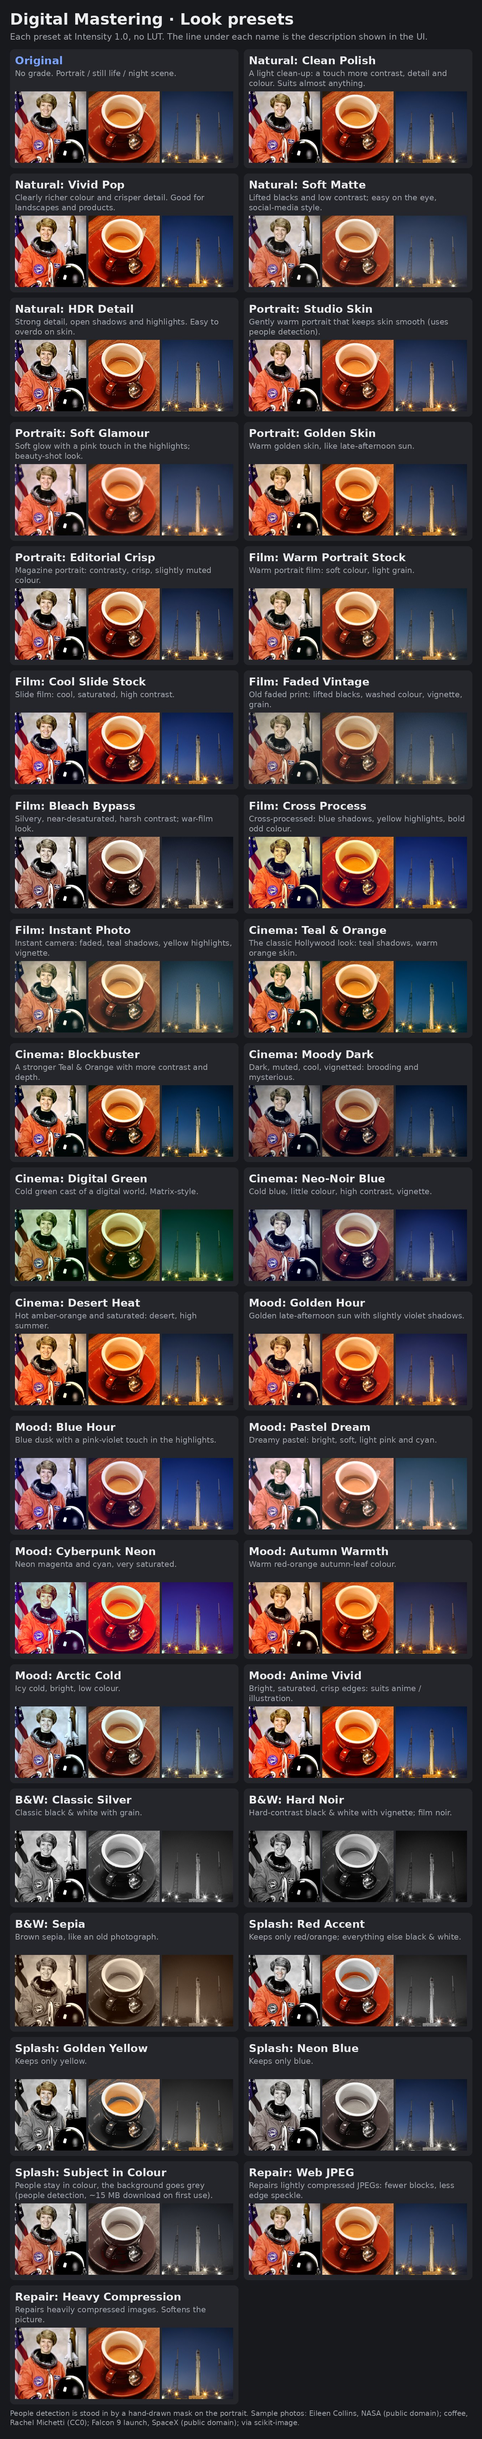
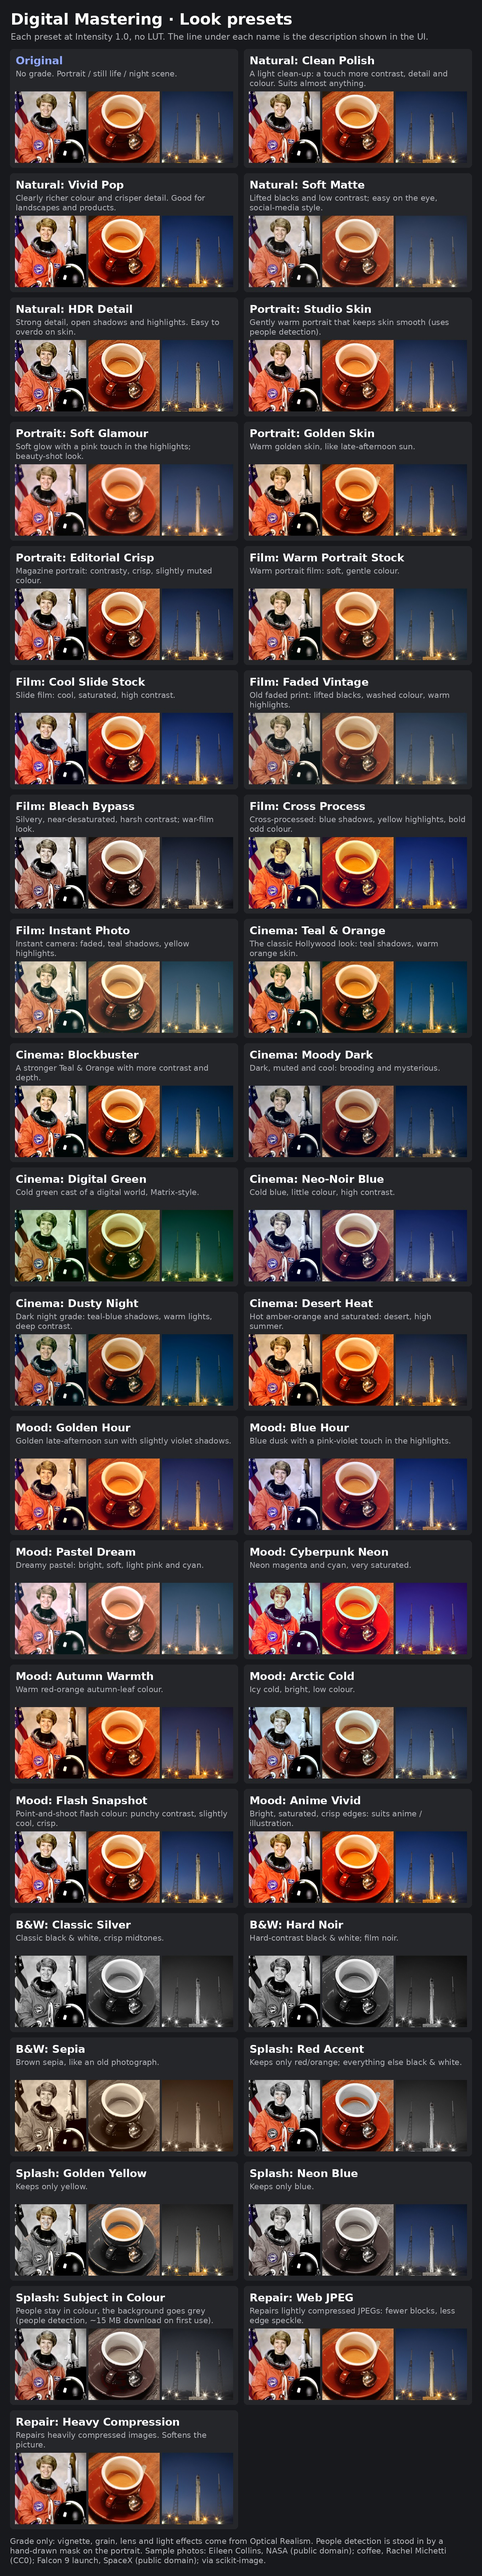
Hand vignette and grain to Optical Realism; grade only
Digital Mastering is now the grade and nothing else; the camera side
(vignette, grain, lens, light) lives in Optical Realism, which runs first.

- Remove vignette, grain and grain size (controls, ops, pipeline, guide).
  Old PNG info carrying them still pastes; those keys are ignored.
- Presets lose their vignette/grain; descriptions updated. New
  "Cinema: Dusty Night" and "Mood: Flash Snapshot" as colour partners for
  Optical Realism's "Dusty Night Film" and "Digital Flash".
- README: division of labour and a preset pairing table.
- Preset reference re-rendered (38 presets).

Claude-Session: https://claude.ai/code/session_01VRYVbQCnCMuoqNc9wUeJiU

diff --git a/lib_dm/presets.py b/lib_dm/presets.py
@@ -7,6 +7,9 @@ Hues: 0 red, 0.08 orange, 0.12 amber, 0.16 yellow, 0.33 green, 0.47 teal,
 
 Presets do not touch Intensity, the LUT or the exposure check: pick a preset,
 then dial Intensity to taste, and it stays put while you try other presets.
+
+Grade only: vignette, grain and every other camera trait are Optical
+Realism's. Pair a look here with one of its camera presets (see README).
 """
 
 from .controls import compose
@@ -44,21 +47,20 @@ _P = {
     # ---- film -------------------------------------------------------------------
     "Film: Warm Portrait Stock": dict(
         offset=0.02, contrast=0.05, saturation=0.90, temperature=0.12,
-        shadow_hue=0.47, shadow_tint=0.08, highlight_hue=0.08, highlight_tint=0.15, grain=0.20),
+        shadow_hue=0.47, shadow_tint=0.08, highlight_hue=0.08, highlight_tint=0.15),
     "Film: Cool Slide Stock": dict(
-        contrast=0.30, saturation=1.20, temperature=-0.10, shadow_hue=0.64, shadow_tint=0.15,
-        grain=0.12),
+        contrast=0.30, saturation=1.20, temperature=-0.10, shadow_hue=0.64, shadow_tint=0.15),
     "Film: Faded Vintage": dict(
         offset=0.07, slope=0.88, contrast=-0.10, saturation=0.75, highlight_hue=0.12,
-        highlight_tint=0.20, shadow_hue=0.55, shadow_tint=0.10, vignette=0.25, grain=0.30),
+        highlight_tint=0.20, shadow_hue=0.55, shadow_tint=0.10),
     "Film: Bleach Bypass": dict(
-        slope=1.05, offset=-0.02, contrast=0.45, saturation=0.45, clarity=0.50, grain=0.20),
+        slope=1.05, offset=-0.02, contrast=0.45, saturation=0.45, clarity=0.50),
     "Film: Cross Process": dict(
         tint=-0.15, contrast=0.30, saturation=1.20, shadow_hue=0.66, shadow_tint=0.35,
         highlight_hue=0.16, highlight_tint=0.40),
     "Film: Instant Photo": dict(
         offset=0.08, contrast=-0.10, saturation=0.70, tint=0.10, highlight_hue=0.13,
-        highlight_tint=0.30, shadow_hue=0.50, shadow_tint=0.25, vignette=0.35, grain=0.25),
+        highlight_tint=0.30, shadow_hue=0.50, shadow_tint=0.25),
 
     # ---- cinema ----------------------------------------------------------------
     "Cinema: Teal & Orange": dict(
@@ -66,16 +68,18 @@ _P = {
         highlight_hue=0.08, highlight_tint=0.40),
     "Cinema: Blockbuster": dict(
         slope=1.08, offset=-0.03, contrast=0.40, clarity=0.30, shadow_hue=0.50,
-        shadow_tint=0.25, highlight_hue=0.08, highlight_tint=0.20, vignette=0.20),
+        shadow_tint=0.25, highlight_hue=0.08, highlight_tint=0.20),
     "Cinema: Moody Dark": dict(
         exposure=-0.30, offset=-0.02, contrast=0.25, saturation=0.75, shadow_hue=0.58,
-        shadow_tint=0.30, vignette=0.40, grain=0.15),
+        shadow_tint=0.30),
     "Cinema: Digital Green": dict(
         tint=-0.50, contrast=0.30, saturation=0.70, shadow_hue=0.38, shadow_tint=0.40,
         highlight_hue=0.30, highlight_tint=0.20),
     "Cinema: Neo-Noir Blue": dict(
-        temperature=-0.45, contrast=0.35, saturation=0.60, shadow_hue=0.64, shadow_tint=0.40,
-        vignette=0.45),
+        temperature=-0.45, contrast=0.35, saturation=0.60, shadow_hue=0.64, shadow_tint=0.40),
+    "Cinema: Dusty Night": dict(
+        exposure=-0.35, offset=-0.01, contrast=0.25, saturation=1.05, temperature=-0.10, tint=-0.05,
+        shadow_hue=0.52, shadow_tint=0.40, highlight_hue=0.07, highlight_tint=0.20),
     "Cinema: Desert Heat": dict(
         temperature=0.45, contrast=0.20, saturation=1.10, highlight_hue=0.10,
         highlight_tint=0.30, clarity=0.20),
@@ -83,7 +87,7 @@ _P = {
     # ---- mood ----------------------------------------------------------------------
     "Mood: Golden Hour": dict(
         temperature=0.35, tint=0.05, contrast=0.10, vibrance=0.25, highlight_hue=0.10,
-        highlight_tint=0.40, shadow_hue=0.75, shadow_tint=0.15, vignette=0.15),
+        highlight_tint=0.40, shadow_hue=0.75, shadow_tint=0.15),
     "Mood: Blue Hour": dict(
         exposure=-0.10, temperature=-0.35, contrast=0.15, shadow_hue=0.64, shadow_tint=0.35,
         highlight_hue=0.80, highlight_tint=0.15),
@@ -99,18 +103,21 @@ _P = {
     "Mood: Arctic Cold": dict(
         exposure=0.15, temperature=-0.50, contrast=0.10, saturation=0.70,
         highlight_hue=0.55, highlight_tint=0.20, clarity=0.20),
+    "Mood: Flash Snapshot": dict(
+        slope=1.04, contrast=0.30, saturation=1.05, vibrance=0.10, temperature=-0.08, clarity=0.10,
+        sharpen=0.20),
     "Mood: Anime Vivid": dict(
         exposure=0.05, contrast=0.20, saturation=1.30, vibrance=0.30, clarity=0.15,
         sharpen=0.35),
 
     # ---- black & white ------------------------------------------------------------
     "B&W: Classic Silver": dict(
-        saturation=0.0, contrast=0.25, clarity=0.30, grain=0.20),
+        saturation=0.0, contrast=0.25, clarity=0.30),
     "B&W: Hard Noir": dict(
-        saturation=0.0, exposure=-0.20, contrast=0.60, clarity=0.50, vignette=0.50, grain=0.30),
+        saturation=0.0, exposure=-0.20, contrast=0.60, clarity=0.50),
     "B&W: Sepia": dict(
         saturation=0.0, offset=0.02, contrast=0.10, highlight_hue=0.09, highlight_tint=0.45,
-        shadow_hue=0.07, shadow_tint=0.35, vignette=0.25, grain=0.20),
+        shadow_hue=0.07, shadow_tint=0.35),
 
     # ---- colour splash ---------------------------------------------------------
     "Splash: Red Accent": dict(
@@ -141,17 +148,18 @@ DESCRIPTIONS = {
     "Portrait: Soft Glamour": "Soft glow with a pink touch in the highlights; beauty-shot look.",
     "Portrait: Golden Skin": "Warm golden skin, like late-afternoon sun.",
     "Portrait: Editorial Crisp": "Magazine portrait: contrasty, crisp, slightly muted colour.",
-    "Film: Warm Portrait Stock": "Warm portrait film: soft colour, light grain.",
+    "Film: Warm Portrait Stock": "Warm portrait film: soft, gentle colour.",
     "Film: Cool Slide Stock": "Slide film: cool, saturated, high contrast.",
-    "Film: Faded Vintage": "Old faded print: lifted blacks, washed colour, vignette, grain.",
+    "Film: Faded Vintage": "Old faded print: lifted blacks, washed colour, warm highlights.",
     "Film: Bleach Bypass": "Silvery, near-desaturated, harsh contrast; war-film look.",
     "Film: Cross Process": "Cross-processed: blue shadows, yellow highlights, bold odd colour.",
-    "Film: Instant Photo": "Instant camera: faded, teal shadows, yellow highlights, vignette.",
+    "Film: Instant Photo": "Instant camera: faded, teal shadows, yellow highlights.",
     "Cinema: Teal & Orange": "The classic Hollywood look: teal shadows, warm orange skin.",
     "Cinema: Blockbuster": "A stronger Teal & Orange with more contrast and depth.",
-    "Cinema: Moody Dark": "Dark, muted, cool, vignetted: brooding and mysterious.",
+    "Cinema: Moody Dark": "Dark, muted and cool: brooding and mysterious.",
     "Cinema: Digital Green": "Cold green cast of a digital world, Matrix-style.",
-    "Cinema: Neo-Noir Blue": "Cold blue, little colour, high contrast, vignette.",
+    "Cinema: Neo-Noir Blue": "Cold blue, little colour, high contrast.",
+    "Cinema: Dusty Night": "Dark night grade: teal-blue shadows, warm lights, deep contrast.",
     "Cinema: Desert Heat": "Hot amber-orange and saturated: desert, high summer.",
     "Mood: Golden Hour": "Golden late-afternoon sun with slightly violet shadows.",
     "Mood: Blue Hour": "Blue dusk with a pink-violet touch in the highlights.",
@@ -159,9 +167,10 @@ DESCRIPTIONS = {
     "Mood: Cyberpunk Neon": "Neon magenta and cyan, very saturated.",
     "Mood: Autumn Warmth": "Warm red-orange autumn-leaf colour.",
     "Mood: Arctic Cold": "Icy cold, bright, low colour.",
+    "Mood: Flash Snapshot": "Point-and-shoot flash colour: punchy contrast, slightly cool, crisp.",
     "Mood: Anime Vivid": "Bright, saturated, crisp edges: suits anime / illustration.",
-    "B&W: Classic Silver": "Classic black & white with grain.",
-    "B&W: Hard Noir": "Hard-contrast black & white with vignette; film noir.",
+    "B&W: Classic Silver": "Classic black & white, crisp midtones.",
+    "B&W: Hard Noir": "Hard-contrast black & white; film noir.",
     "B&W: Sepia": "Brown sepia, like an old photograph.",
     "Splash: Red Accent": "Keeps only red/orange; everything else black & white.",
     "Splash: Golden Yellow": "Keeps only yellow.",

diff --git a/lib_dm/layout.py b/lib_dm/layout.py
@@ -14,8 +14,9 @@ QUICK_START = """
 A preset ticks the sections it uses and sets their sliders; nothing is hidden, and you can keep adjusting after picking one.
 Settings are saved in PNG Info: Send to / Paste restores the exact look.
 
-*Using it with Easy Color Corrector and Optical Realism:* switch each job on in one place only.
-Temperature, grain or vignette enabled in two extensions stack up and double.
+*With Optical Realism:* this suite is the grade (light, colour, detail, repair).
+Lens, light, depth of field, vignette, grain, dust and flash live in Optical Realism, which runs first,
+so the grade lands on the finished "photograph".
 """
 
 TABS = [
@@ -57,19 +58,18 @@ The *colour* sliders pick a hue around the wheel: 0 red · 0.08 orange · 0.16 y
 |---|---|---|
 | Clarity | Positive: depth, detail stands out. Negative: soft glow, smoother skin | -0.3 … +0.5 |
 | Sharpen | Sharpens edges only; flat areas and noise are left alone | 0.1 … 0.3 |
-| Vignette | Positive: darker corners, draws the eye in. Negative: brighter corners | 0.15 … 0.4 |
-| Film grain | Film-like grain; tied to the seed, so the same seed gives the same grain | 0.1 … 0.3 |
 
 - **Clarity radius**: small affects texture, large affects shape and depth.
-- **Grain size**: how coarse the grain is.
 - **Anti-banding**: a trace of noise that removes banding in skies and gradients. Always applied last.
+
+Vignette and film grain are camera traits: they are in Optical Realism.
 
 Tip: for portraits, turn on **Protect people** in *Repair & Tools* so Clarity and Sharpen do not roughen skin.
 """,
         "sections": [
             (None, ["en_detail"]),
             ("Detail", ["clarity", "clarity_radius", "sharpen"]),
-            ("Finish", ["vignette", "grain", "grain_size", "dither"]),
+            ("Finish", ["dither"]),
         ],
     },
     {

diff --git a/lib_dm/controls.py b/lib_dm/controls.py
@@ -53,11 +53,8 @@ CONTROLS = [
     # --- detail & finish ----------------------------------------------------
     Control("clarity", "Clarity", 0.0, -1.0, 2.0, 0.05, info="+ crisp local contrast / - soft glow"),
     Control("sharpen", "Sharpen", 0.0, 0.0, 1.0, 0.05, info="Edges only; flat areas and noise are left alone."),
-    Control("vignette", "Vignette", 0.0, -1.0, 1.0, 0.01, info="+ dark corners / - bright corners"),
-    Control("grain", "Film grain", 0.0, 0.0, 1.0, 0.01),
     Control("clarity_radius", "Clarity radius", 4.0, 1.0, 10.0, 0.5,
             info="Small = texture, large = shape and depth."),
-    Control("grain_size", "Grain size", 1.0, 0.5, 3.0, 0.1),
     Control("dither", "Anti-banding", 0.0, 0.0, 1.0, 0.05,
             info="Invisible noise that breaks up banding in skies and gradients."),
     # --- effects -------------------------------------------------------------
@@ -86,7 +83,7 @@ GROUPS = {
     "en_color": ["exposure", "contrast", "temperature", "tint", "saturation", "vibrance",
                  "shadow_hue", "shadow_tint", "highlight_hue", "highlight_tint", "tone_balance",
                  "slope", "offset", "power"],
-    "en_detail": ["clarity", "sharpen", "vignette", "grain", "clarity_radius", "grain_size", "dither"],
+    "en_detail": ["clarity", "sharpen", "clarity_radius", "dither"],
     "en_splash": ["splash_desat", "splash_hue", "splash_tolerance"],
     "en_lut": ["lut", "lut_strength"],
     "en_repair": ["deblock", "dering"],

diff --git a/lib_dm/ops.py b/lib_dm/ops.py
@@ -235,30 +235,6 @@ def sharpen(x, amount, protect_mask=None):
 
 # ---------------------------------------------------------------- finishing
 
-def vignette(x, amount):
-    _, _, h, w = x.shape
-    yy = torch.linspace(-1.0, 1.0, h, device=x.device, dtype=x.dtype).view(1, 1, h, 1)
-    xx = torch.linspace(-1.0, 1.0, w, device=x.device, dtype=x.dtype).view(1, 1, 1, w)
-    d = torch.sqrt(xx * xx + yy * yy) / math.sqrt(2.0)
-    m = smoothstep(0.35, 1.0, d)
-    if amount > 0:
-        return x * (1.0 - 0.85 * amount * m)
-    return torch.lerp(x, torch.ones_like(x), (-0.6 * amount) * m)
-
-
-def film_grain(x, amount, size, generator):
-    """Monochrome, luminance-weighted grain, reproducible from the seed."""
-    b, _, h, w = x.shape
-    gh, gw = max(1, int(round(h / size))), max(1, int(round(w / size)))
-    n = torch.randn((b, 1, gh, gw), generator=generator, device=x.device, dtype=x.dtype)
-    if (gh, gw) != (h, w):
-        n = F.interpolate(n, size=(h, w), mode="bicubic", align_corners=False)
-        n = n / n.std().clamp_min(1e-6)
-    y = luma(x).clamp(0.0, 1.0)
-    weight = 0.35 + 0.65 * (4.0 * y * (1.0 - y))       # strongest in the midtones
-    return x + n * (0.06 * amount) * weight
-
-
 def dither(x, strength, generator):
     """TPDF dither of about one 8-bit step, to break up banding on export."""
     r = torch.rand((2, *x.shape), generator=generator, device=x.device, dtype=x.dtype)

diff --git a/lib_dm/pipeline.py b/lib_dm/pipeline.py
@@ -9,7 +9,6 @@ Order, and why:
     LUT                  a look on top of the grade, as colourists stack it
     selective colour     after the look, so the kept hue is the final hue
     clarity, sharpen     detail last among the edits, on the final tones
-    vignette, grain      finishing
     intensity            blend the whole grade back towards the original
     dither               very last: anything after it would amplify it
 
@@ -95,10 +94,6 @@ def master(image: Image.Image, s: dict, device="cpu", seed=0, lut_volume=None, m
     if s["sharpen"] > 0:
         x = ops.sharpen(x, s["sharpen"], protect)
 
-    if s["vignette"] != 0:
-        x = ops.vignette(x, s["vignette"])
-    if s["grain"] > 0:
-        x = ops.film_grain(x, s["grain"], s["grain_size"], gen)
     x = x.clamp(0.0, 1.0)
     if s["strength"] < 1.0:
         x = torch.lerp(original, x, s["strength"])

diff --git a/README.md b/README.md
@@ -1,8 +1,9 @@
 # Stable Diffusion Extension - Digital Mastering Suite
 
 Post-processing grade applied to every generated image, after the inpaint
-composite. Works on Forge, reForge and Forge Classic (Neo). 36 look presets,
-each with a one-line description.
+composite. Works on Forge, reForge and Forge Classic (Neo). 38 look presets,
+each with a one-line description. Grade only: camera traits such as vignette
+and grain are in Optical Realism (see below).
 
 ![Preset reference](preset_reference.jpg)
 
@@ -25,7 +26,7 @@ each with a one-line description.
 | Tab | Sections |
 |---|---|
 | Color | Enable Color · Light (exposure, contrast) · White balance · Colour (saturation, vibrance) · Split toning · CDL |
-| Detail & Finish | Enable Detail & Finish · Detail (clarity, clarity radius, sharpen) · Finish (vignette, grain, grain size, anti-banding) |
+| Detail & Finish | Enable Detail & Finish · Detail (clarity, clarity radius, sharpen) · Finish (anti-banding) |
 | Effects | Selective colour · LUT (picker + Refresh, opacity, extra folder) |
 | Repair & Tools | Restoration · Protect people · Exposure check |
 
@@ -40,11 +41,41 @@ wheel on their track.
 (portrait, still life, night scene). Scroll inside the box, or click the
 picture to open it full size in a new tab. Click the button again to fold it.
 
+## Optical Realism and Digital Mastering
+
+The two extensions split the work the way a photo is made, and no control
+exists in both:
+
+| Optical Realism (runs first) | Digital Mastering (runs second) |
+|---|---|
+| The camera: lens geometry, vignette, depth of field, blur, bloom, flare, halation, light wrap, flash, haze, grain, dust, scratches, date stamp, highlight roll-off | The grade: exposure, contrast, white balance (temperature, tint), saturation, vibrance, split toning, CDL, LUT, selective colour, clarity, sharpen, anti-banding, JPEG repair |
+
+Each preset covers only its own side, so a look is one preset from each. Pairs
+that go together:
+
+| Optical Realism | Digital Mastering |
+|---|---|
+| Subtle Real Camera | Natural: Clean Polish |
+| Portrait 85mm f/1.8 | Portrait: Studio Skin |
+| Portrait f/1.2 Dreamy | Portrait: Soft Glamour |
+| Street 35mm f/5.6 | Natural: Vivid Pop or Film: Cool Slide Stock |
+| Macro Close-up | Natural: HDR Detail |
+| Vintage Lens | Film: Faded Vintage or Film: Instant Photo |
+| Film Camera 35mm | Film: Warm Portrait Stock |
+| Heavy Film Grain | B&W: Classic Silver or B&W: Hard Noir |
+| Pro-Mist Cinema | Cinema: Teal & Orange |
+| Anamorphic Flare | Cinema: Blockbuster |
+| Night City Glow | Mood: Cyberpunk Neon |
+| Landscape Aerial Haze | Mood: Golden Hour |
+| Foggy Morning | Natural: Soft Matte or Mood: Blue Hour |
+| Backlit Rim Light | Mood: Golden Hour |
+| Dusty Night Film | Cinema: Dusty Night or Cinema: Moody Dark |
+| Digital Flash | Mood: Flash Snapshot |
+
 ## Order
 
 restoration -> exposure/WB (linear light) -> CDL -> contrast -> saturation ->
-split toning -> LUT -> selective colour -> clarity -> sharpen -> vignette ->
-grain -> dither. Dither runs last so that no later step amplifies it.
+split toning -> LUT -> selective colour -> clarity -> sharpen -> dither. Dither runs last so that no later step amplifies it.
 
 ## PNG info
 
@@ -53,15 +84,15 @@ One entry, only the non-default values:
     Digital Mastering: "temperature=0.35; contrast=0.1; highlight_tint=0.4"
 
 Send-to / paste restores all of it. The older `Restore(...) | CDL(...)` format
-still pastes.
+still pastes. `vignette`, `grain` and `grain_size` from images made before
+they moved to Optical Realism are ignored.
 
 ## Notes
 
 - Exposure and white balance work in linear light. Clarity and sharpen work on
   luminance only, so they cannot fringe colour edges; clarity is weighted to
   the midtones so it does not halo clipped areas.
-- Grain and dither are seeded from the image's seed: the same seed gives the
-  same grain.
+- Dither is seeded from the image's seed: the same seed gives the same result.
 - **Protect people** uses SegFormer-B0 (about 15 MB, downloaded on first use).
   The model is parked on the CPU between jobs.
 - LUTs: put `.cube` files in `models/LUTs`, or name another folder. LUTs with a
@@ -73,7 +104,7 @@ still pastes.
 ```
 scripts/digital_mastering.py   UI + host hooks, built from the control table
 lib_dm/controls.py             every control, declared once (UI, presets, PNG info)
-lib_dm/presets.py              the 36 looks, each listing only what it changes
+lib_dm/presets.py              the 38 looks, each listing only what it changes
 lib_dm/layout.py               tabs, sections and guide texts
 lib_dm/pipeline.py             the chain, in order, skipping inactive stages
 lib_dm/ops.py                  the image operations, pure torch
